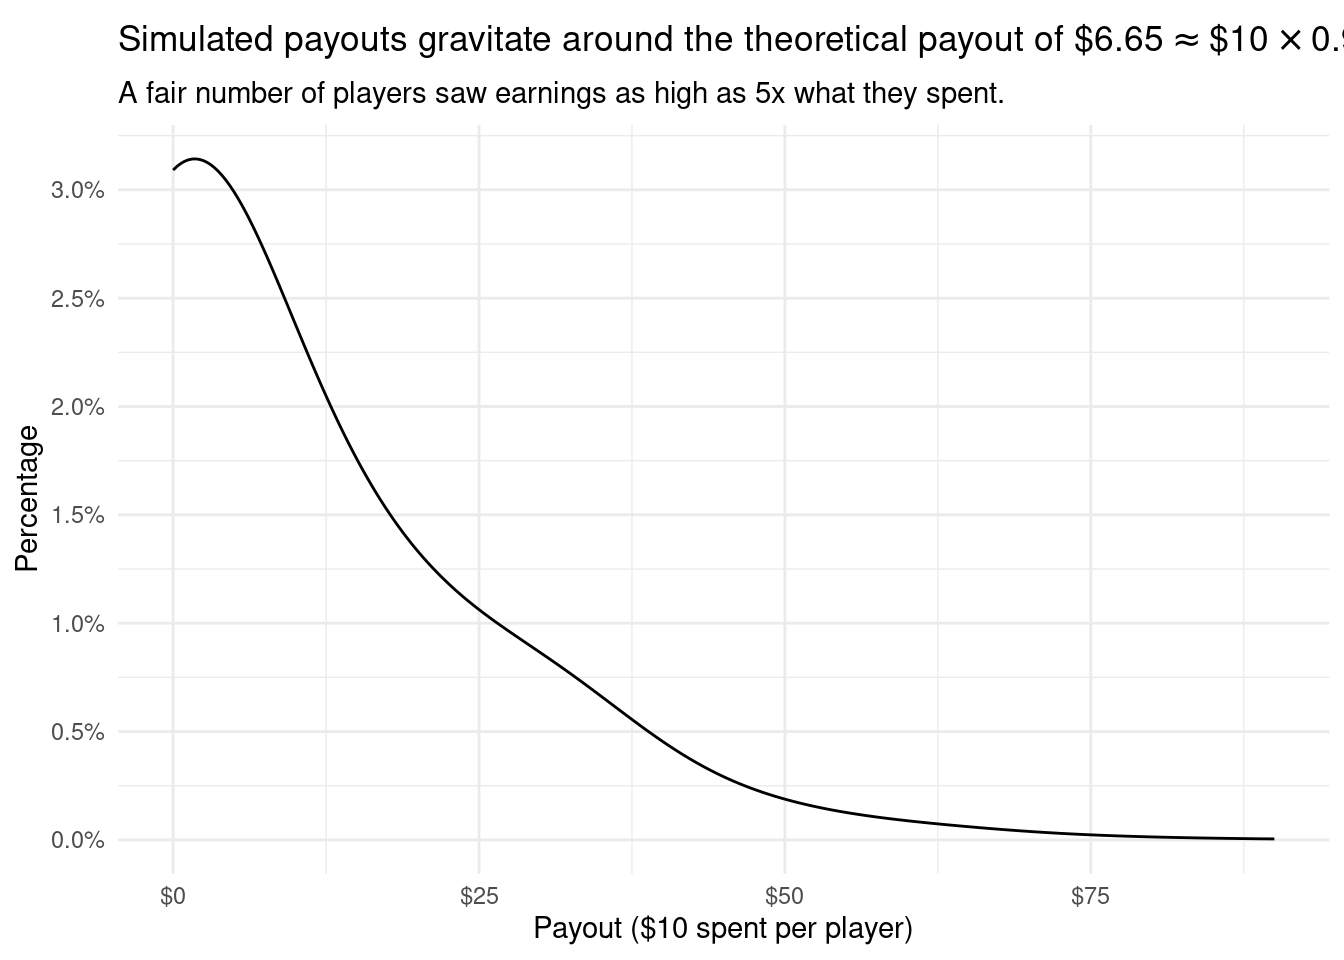
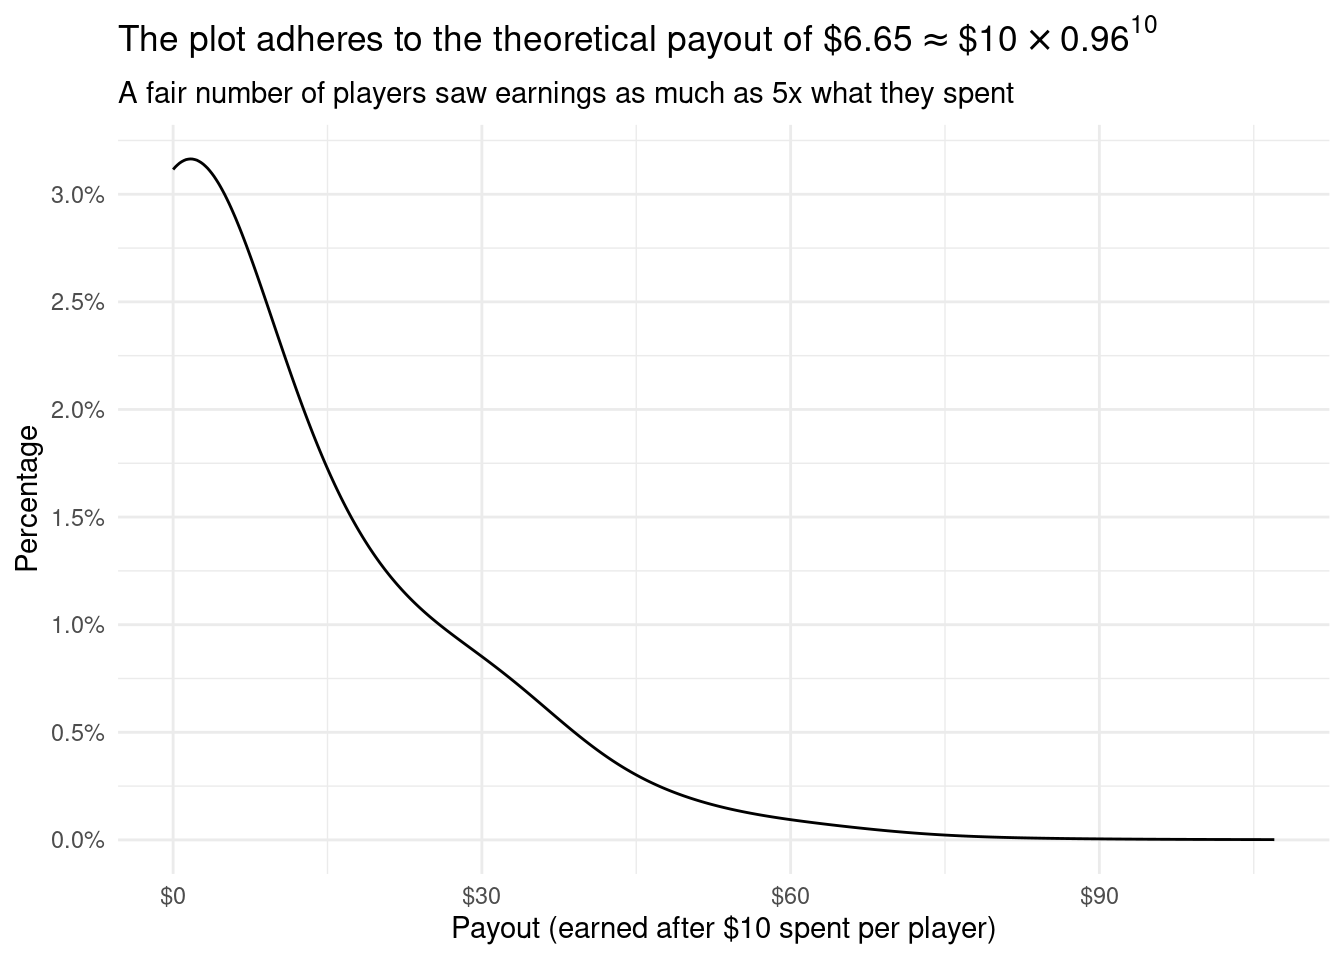
Change subtitle
Final patch for tonight

diff --git a/simulation.html b/simulation.html
@@ -363,11 +363,11 @@ x \in X, &amp; \text{if } w = (x_1, 11, x_3)\text{ and }x_1 \equiv 1\text{ (mod 
 <span id="cb18-2"><a href="#cb18-2" aria-hidden="true" tabindex="-1"></a>  <span class="fu">ggplot</span>(<span class="fu">aes</span>(payout <span class="sc">*</span> <span class="dv">10</span>)) <span class="sc">+</span> <span class="co">#total earned rather than earning per dollar.</span></span>
 <span id="cb18-3"><a href="#cb18-3" aria-hidden="true" tabindex="-1"></a>  <span class="fu">geom_density</span>(<span class="at">bw =</span> <span class="fl">8.5</span>) <span class="sc">+</span> <span class="co">#heavy smoothing because of the discrete volatility of the data.</span></span>
 <span id="cb18-4"><a href="#cb18-4" aria-hidden="true" tabindex="-1"></a>  <span class="fu">labs</span>(</span>
-<span id="cb18-5"><a href="#cb18-5" aria-hidden="true" tabindex="-1"></a>    <span class="at">subtitle =</span> <span class="st">"A fair number of players saw earnings as high as 5x what they spent."</span>,</span>
+<span id="cb18-5"><a href="#cb18-5" aria-hidden="true" tabindex="-1"></a>    <span class="at">subtitle =</span> <span class="st">"A fair number of players saw earnings as much as 5x what they spent"</span>,</span>
 <span id="cb18-6"><a href="#cb18-6" aria-hidden="true" tabindex="-1"></a>    <span class="at">y =</span> <span class="st">"Percentage"</span>, </span>
-<span id="cb18-7"><a href="#cb18-7" aria-hidden="true" tabindex="-1"></a>    <span class="at">x =</span> <span class="st">"Payout ($10 spent per player)"</span>,</span>
+<span id="cb18-7"><a href="#cb18-7" aria-hidden="true" tabindex="-1"></a>    <span class="at">x =</span> <span class="st">"Payout (earned after $10 spent per player)"</span>,</span>
 <span id="cb18-8"><a href="#cb18-8" aria-hidden="true" tabindex="-1"></a>  ) <span class="sc">+</span></span>
-<span id="cb18-9"><a href="#cb18-9" aria-hidden="true" tabindex="-1"></a>    <span class="fu">ggtitle</span>(latex2exp<span class="sc">::</span><span class="fu">TeX</span>(<span class="st">"Simulated payouts gravitate around the theoretical payout of $</span><span class="sc">\\</span><span class="st">$6.65 </span><span class="sc">\\</span><span class="st">approx </span><span class="sc">\\</span><span class="st">$10 </span><span class="sc">\\</span><span class="st">times 0.96^{10}$"</span>)) <span class="sc">+</span></span>
+<span id="cb18-9"><a href="#cb18-9" aria-hidden="true" tabindex="-1"></a>    <span class="fu">ggtitle</span>(latex2exp<span class="sc">::</span><span class="fu">TeX</span>(<span class="st">"The plot adheres to the theoretical payout of $</span><span class="sc">\\</span><span class="st">$6.65 </span><span class="sc">\\</span><span class="st">approx </span><span class="sc">\\</span><span class="st">$10 </span><span class="sc">\\</span><span class="st">times 0.96^{10}$"</span>)) <span class="sc">+</span></span>
 <span id="cb18-10"><a href="#cb18-10" aria-hidden="true" tabindex="-1"></a>  <span class="fu">scale_x_continuous</span>(<span class="at">labels =</span> scales<span class="sc">::</span><span class="fu">label_dollar</span>()) <span class="sc">+</span></span>
 <span id="cb18-11"><a href="#cb18-11" aria-hidden="true" tabindex="-1"></a>  <span class="fu">scale_y_continuous</span>(</span>
 <span id="cb18-12"><a href="#cb18-12" aria-hidden="true" tabindex="-1"></a>    <span class="at">breaks =</span> scales<span class="sc">::</span><span class="fu">breaks_extended</span>(<span class="at">n =</span> <span class="dv">7</span>),</span>
@@ -380,8 +380,8 @@ x \in X, &amp; \text{if } w = (x_1, 11, x_3)\text{ and }x_1 \equiv 1\text{ (mod 
 </div>
 </div>
 </section>
-<section id="statistically-verify-the-expected-payout" class="level3">
-<h3 class="anchored" data-anchor-id="statistically-verify-the-expected-payout">Statistically verify the expected payout</h3>
+<section id="statistically-verify-the-simulations-expected-payout" class="level3">
+<h3 class="anchored" data-anchor-id="statistically-verify-the-simulations-expected-payout">Statistically verify the simulation’s expected payout</h3>
 </section>
 </section>
 
